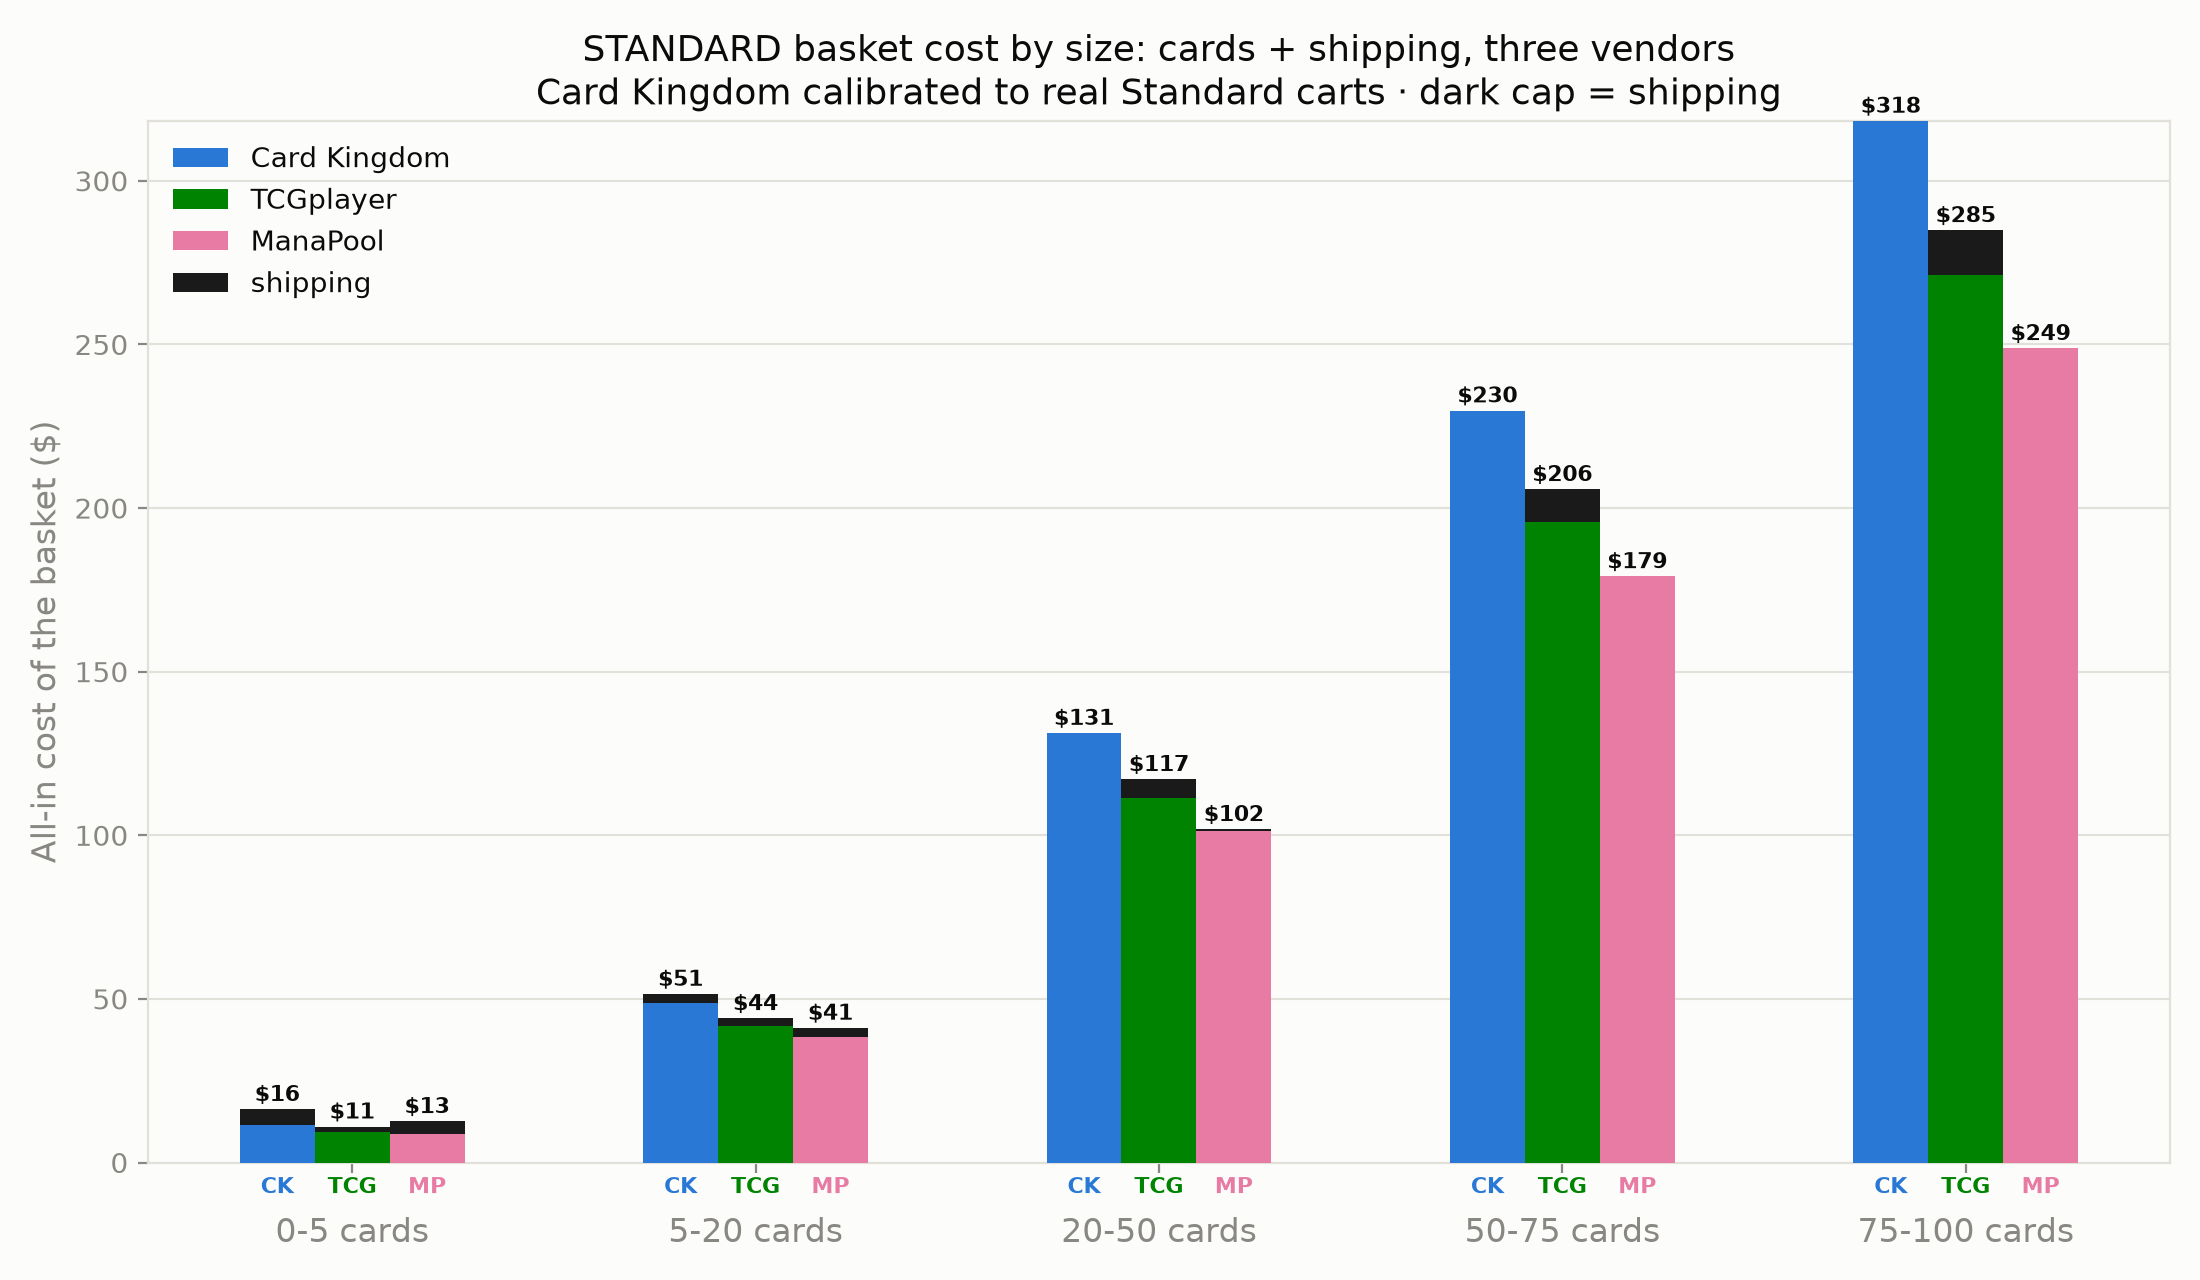
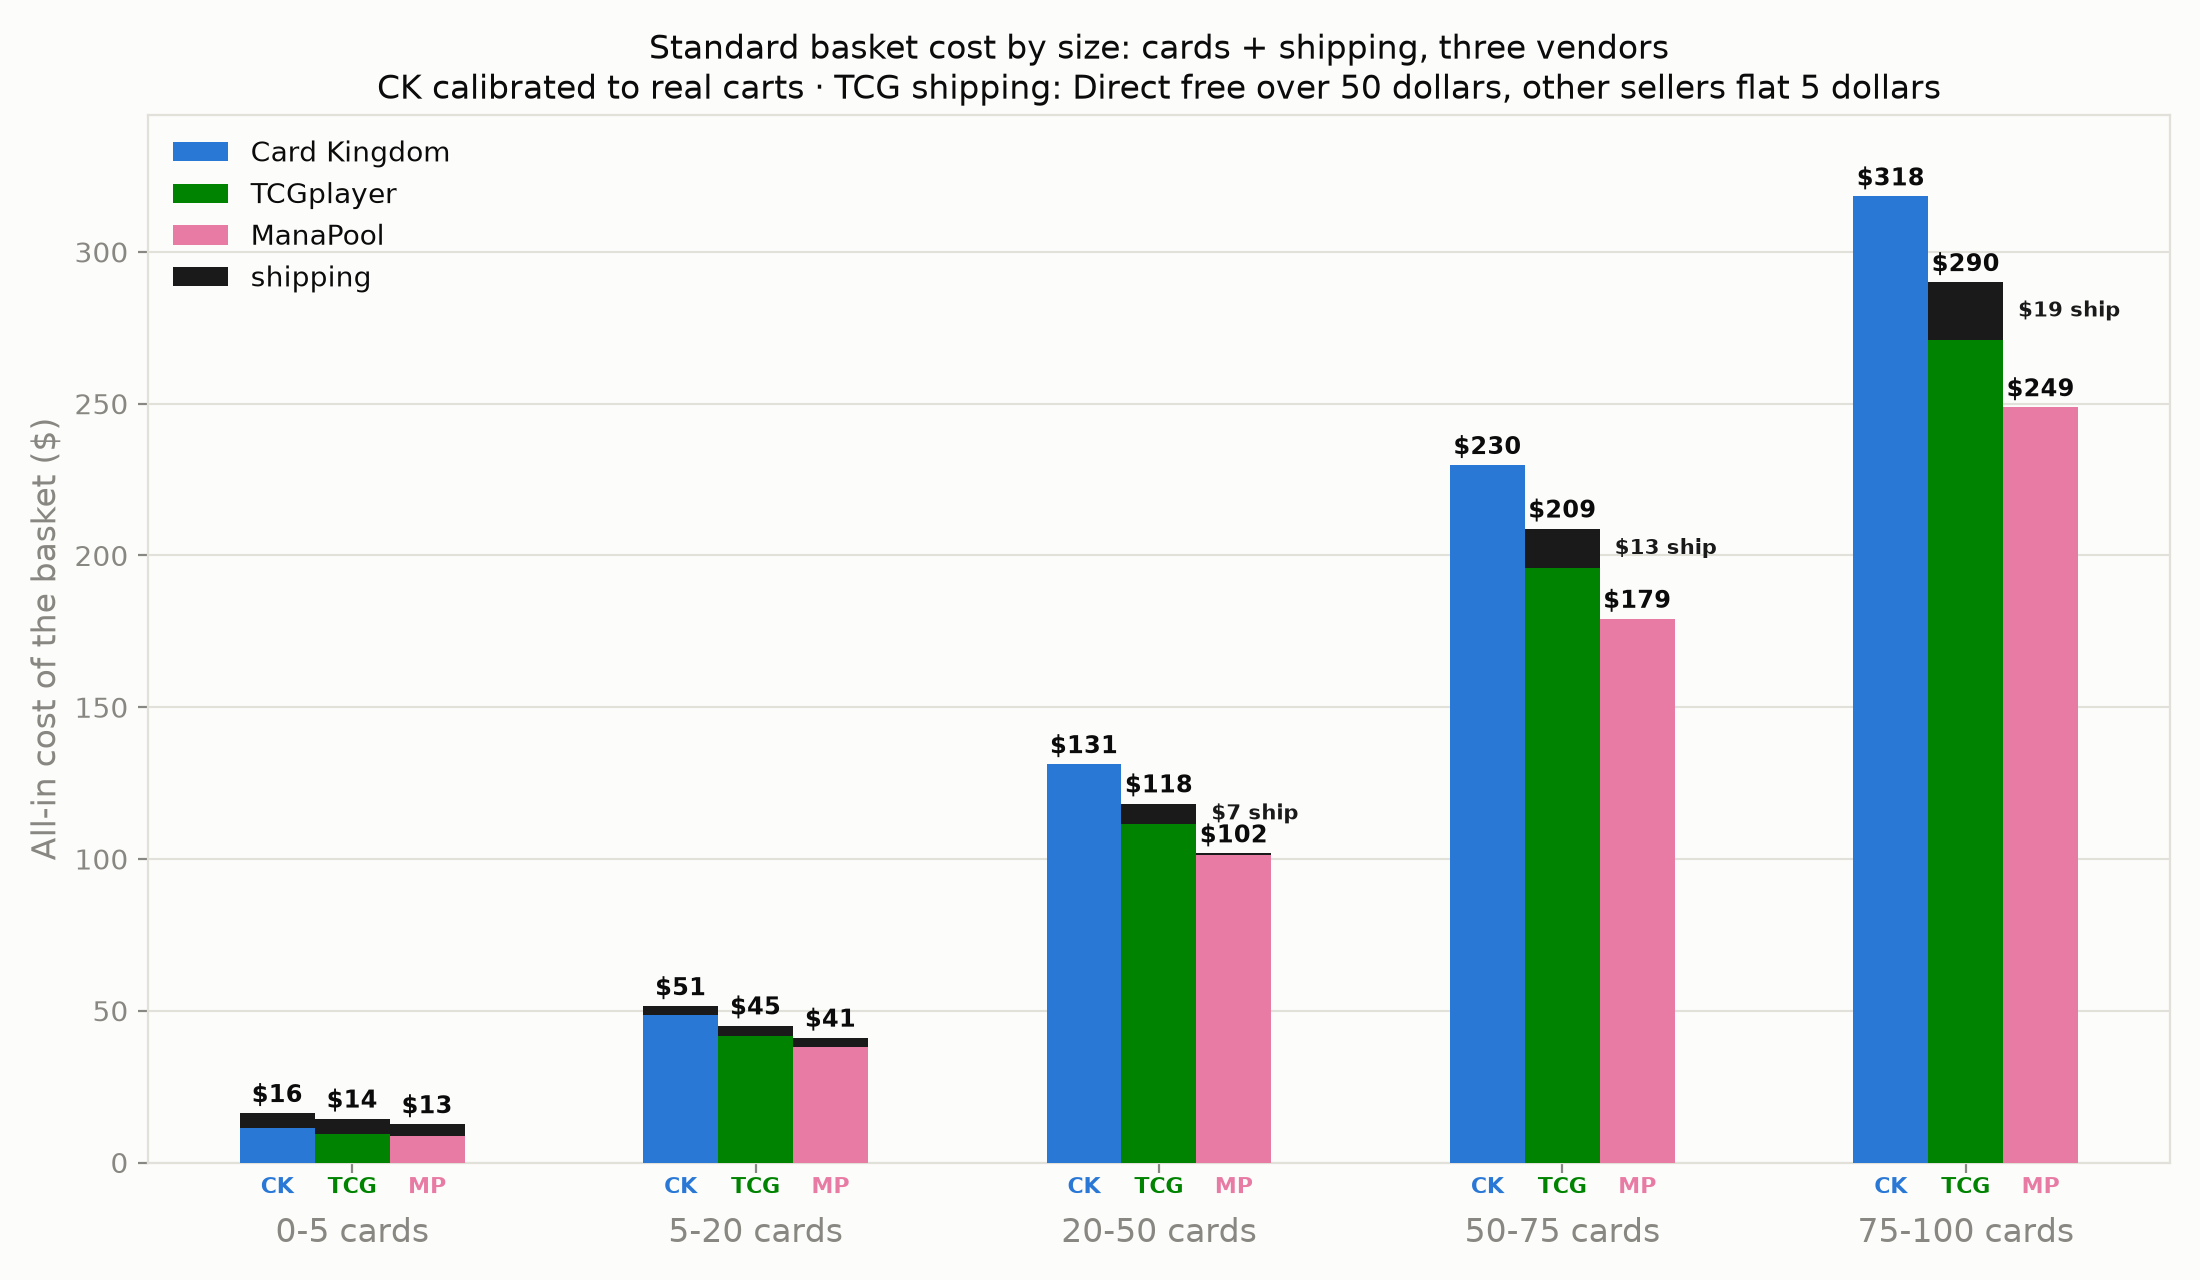
Correct TCGplayer shipping model per real rules + calibration
Per correction: TCG Direct ships free over $50; every other seller
charges a flat fee capped at $5. Rewrote tcg_multiseller_shipping
accordingly (Direct = one free-over-threshold seller, others flat $5).
Calibrated cards_per_seller=20 so full-deck TCG shipping matches the
real-cart study (~$20 Standard, ~$25 Commander). Standard chart shows TCG
shipping now $5 (small) growing to ~$19 (full deck); CK still above TCG
at every bucket even with the higher, corrected TCG shipping.

Claude-Session: https://claude.ai/code/session_01JfSvnLRd6xKJhXvNadj6Qu

diff --git a/mtg_pricebot/basket.py b/mtg_pricebot/basket.py
@@ -23,19 +23,20 @@ def flat_threshold_shipping(subtotal: float, free_threshold: float, flat_fee: fl
 
 def tcg_multiseller_shipping(prices: list[float], cards_per_seller: int,
                              per_seller_fee: float, seller_free_threshold: float) -> float:
-    """Marketplace model: the basket is split across ceil(n / cards_per_seller)
-    sellers. Expensive cards are grouped first so high-value sellers hit their
-    free-shipping threshold the way a real buyer would consolidate.
+    """Marketplace model. TCG Direct is the primary seller and ships FREE once
+    the cart clears the threshold ($50); every other seller charges a flat fee
+    (max $5) — Direct does not stock everything, so a basket fragments across
+    ceil(n / cards_per_seller) sellers and each non-Direct one bills shipping.
+    Calibrated (cards_per_seller) to the real-cart study's TCG shipping.
     """
     if not prices:
         return 0.0
-    ordered = sorted(prices, reverse=True)
-    n_sellers = math.ceil(len(ordered) / cards_per_seller)
-    fee = 0.0
-    for i in range(n_sellers):
-        chunk = ordered[i * cards_per_seller:(i + 1) * cards_per_seller]
-        if sum(chunk) < seller_free_threshold:
-            fee += per_seller_fee
+    total = sum(prices)
+    n_sellers = math.ceil(len(prices) / cards_per_seller)
+    # Seller 0 = TCG Direct: free when the cart clears the threshold, else pays.
+    fee = 0.0 if total >= seller_free_threshold else per_seller_fee
+    # Every other seller charges the flat fee.
+    fee += (n_sellers - 1) * per_seller_fee
     return fee
 
 
